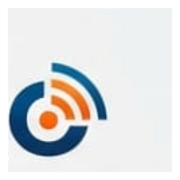
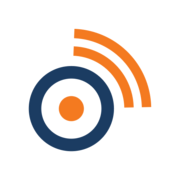
Add files via upload

Changed region(s): [[0.0278, 0.3333, 0.6389, 0.8889], [0.3889, 0.1389, 0.8611, 0.6111]]

diff --git a/src/components/Header.tsx b/src/components/Header.tsx
@@ -68,7 +68,7 @@ export const Header: React.FC<HeaderProps> = ({
           <img 
             src="/logo-icon-512.png" 
             alt="HALOJATIMNEWS Logo" 
-            className="h-10 w-10 object-contain bg-white p-1 rounded-lg shadow-sm hover:scale-105 transition-transform" 
+            className="h-[52px] w-[52px] object-contain bg-white p-1.5 rounded-lg shadow-sm hover:scale-105 transition-transform" 
           />
           <div className="hidden sm:block">
             <span className="font-extrabold text-xl md:text-2xl uppercase tracking-tighter text-white block leading-none">
